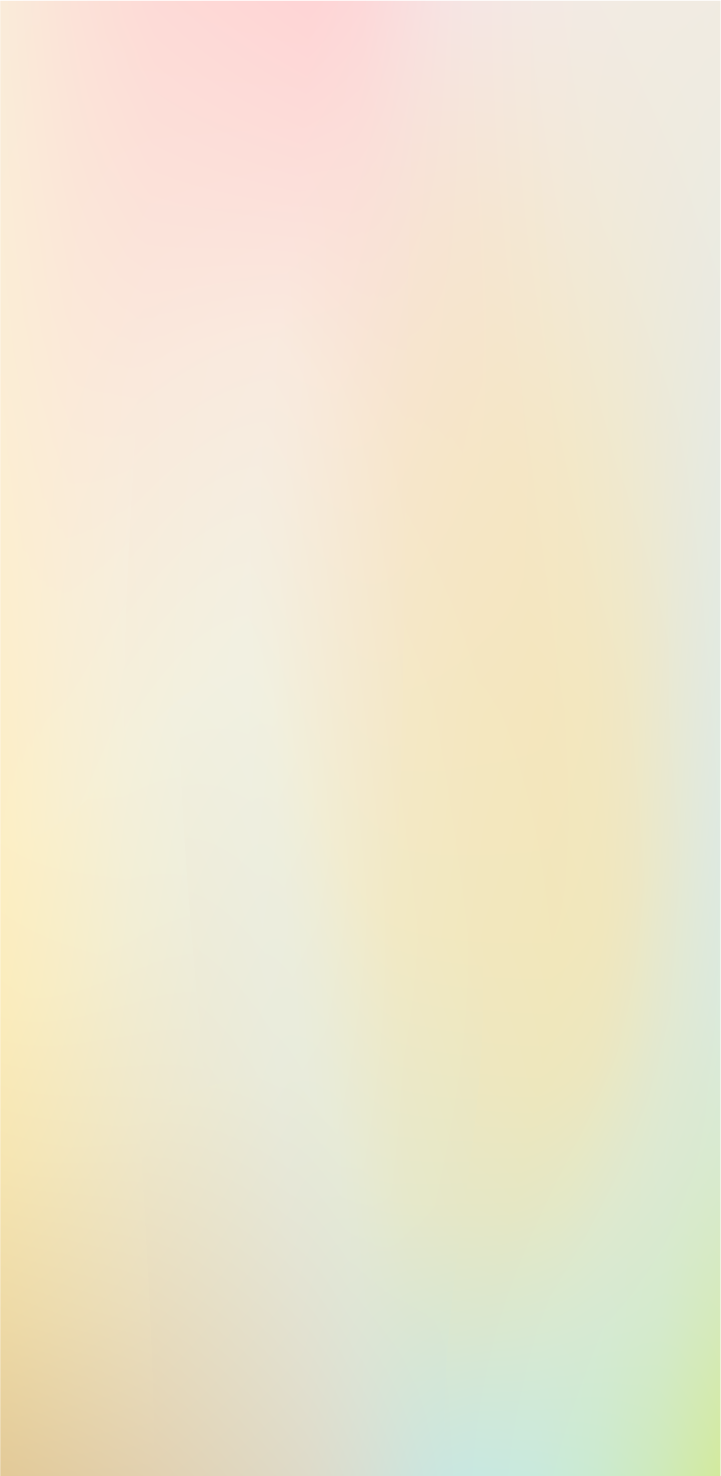
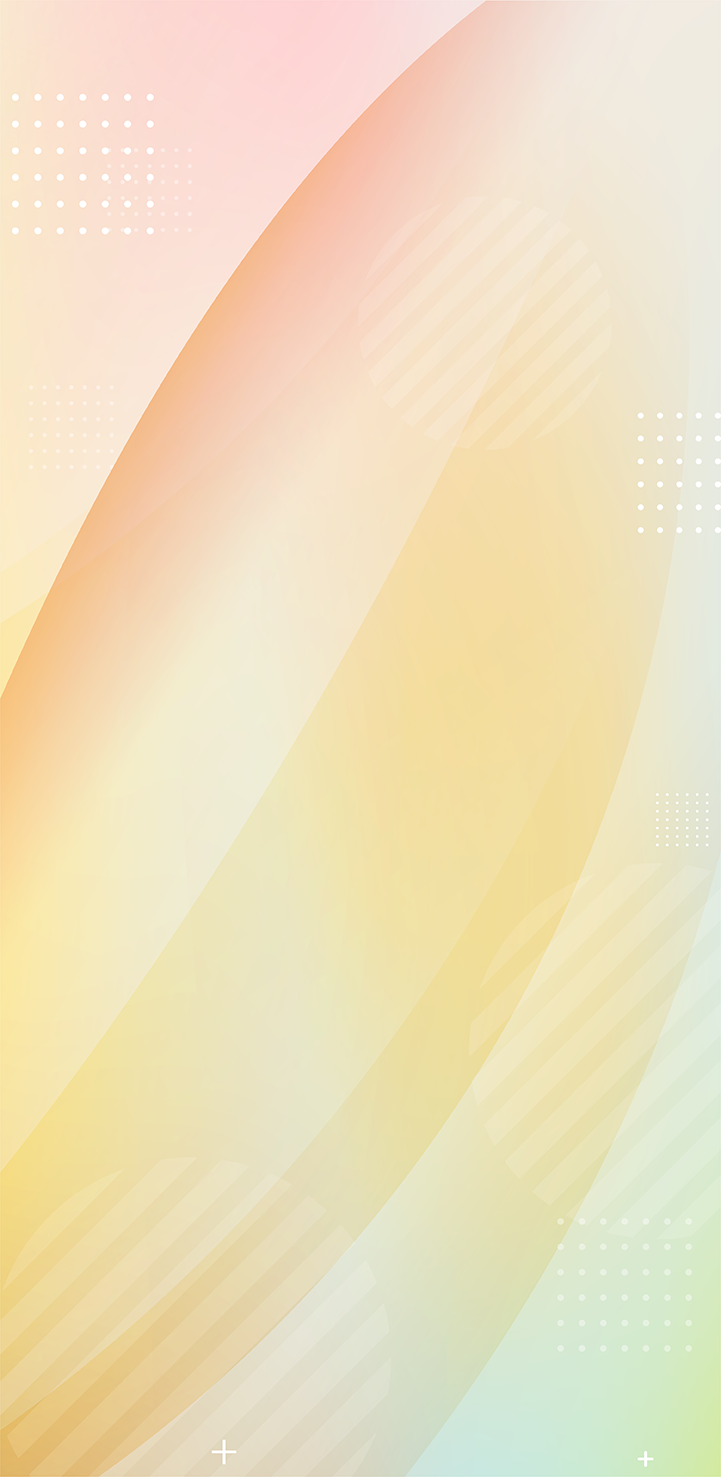
.

diff --git a/src/Components/Pages/HomePage.jsx b/src/Components/Pages/HomePage.jsx
@@ -64,13 +64,15 @@ function HomePage() {
 
 
   return (
-    <div className={`min-h-screen bg-black flex justify-center select-none ${isSidebarOpen ? 'overflow-hidden' : ''}`}>
+    <div className={`min-h-screen flex justify-center select-none ${isSidebarOpen ? 'overflow-hidden' : ''}`}>
 
       <div
         {...handlers}
-        className={`MainContainer w-full flex flex-col items-center justify-center min-h-screen bg-cover bg-center relative ${isSidebarOpen ? 'overflow-hidden' : 'overflow-auto'}`}
-        style={{ backgroundImage: `url(${DefaultBackground})`, backgroundSize : '450px', backgroundAttachment: 'fixed' }}
+        className={`MainContainer w-full flex flex-col items-center justify-center  relative ${isSidebarOpen ? 'overflow-hidden' : 'overflow-auto'}`}
       >
+        <div className="background-fixed "
+          style={{ backgroundImage: `url(${DefaultBackground})`, backgroundSize: '450px', backgroundRepeat : 'no-repeat' }}
+        ></div>
         <Header />
         {/* <Sidebar isOpen={isSidebarOpen} onClose={() => setIsSidebarOpen(false)} />
         {isSidebarOpen && (
@@ -85,7 +87,7 @@ function HomePage() {
             <div className="flex flex-col gap-4 w-full items-center justify-center">
 
               <div className='flex gap-1 items-center'>
-                 <h3 className='text-sm md:text-[16px] font-semibold tracking-[0.20em] text-[#0F4254] uppercase'> Find my details below</h3>
+                <h3 className='text-sm md:text-[16px] font-semibold tracking-[0.20em] text-[#0F4254] uppercase'> Find my details below</h3>
                 <div className="relative group cursor-pointer">
                   <img className='w-3 AlertIconH' src={AlertIcon} alt="" />
                   <div className="tooltip absolute top-7 -right-20 z-40">
@@ -152,7 +154,7 @@ function HomePage() {
             </div>
           </div>
 
-         
+
           {/* Mediclaim Policies */}
           <div className="w-full flex flex-col gap-20 mt-[90px] px-5">
 
@@ -171,17 +173,17 @@ function HomePage() {
               <div className="px-4 py-7 flex flex-col gap-3">
                 <div className="flex justify-between gap-2">
                   <div className="flex gap-4">
-                  <img className='w-10' src={CompanyPoliciesIcon} alt="" />
-                  <div className="flex flex-col gap-1">
-                    <h4 className='text-lg md:text-2xl font-bold text-[#32CC36]'>Company Policy</h4>
-                    <span className='text-xs md:text-sm ml-1'>Expiry Date: <span className='font-semibold text-[#3C3C3C]'>06.04.2024</span></span>
-                  </div>
+                    <img className='w-10' src={CompanyPoliciesIcon} alt="" />
+                    <div className="flex flex-col gap-1">
+                      <h4 className='text-lg md:text-2xl font-bold text-[#32CC36]'>Company Policy</h4>
+                      <span className='text-xs md:text-sm ml-1'>Expiry Date: <span className='font-semibold text-[#3C3C3C]'>06.04.2024</span></span>
+                    </div>
                   </div>
                   <button className='bg-[#32CC36] h-[26px] rounded-full flex items-center justify-end pl-5 pr-2 xss:pl-10 xs:pl-14'><img className='w-4' src={rightArrow} alt="" /></button>
                 </div>
 
                 <div className="py-7 flex flex-col gap-7">
-                  
+
                   <Input label={'Mediclaim Company'} type='text' value={'Manipal Cigna'} icon={MedCompany} />
                   <Input label={'Mediclaim-ID'} type='text' value={'5095491581'} icon={PolicyRelationShipManager} />
                   <Input label={'Policy Relationship Manager'} type='text' value={'Rajkumar Tiwari'} icon={MedID} icon2={CallIcon} />
@@ -208,11 +210,11 @@ function HomePage() {
               <div className="px-4 py-7 flex flex-col gap-3">
                 <div className="flex justify-between">
                   <div className="flex gap-4">
-                  <img className='w-10' src={CompanyPoliciesIcon} alt="" />
-                  <div className="flex flex-col gap-1">                    
-                    <h4 className='text-lg md:text-2xl font-bold text-[#32CC36]'>Personal Policy</h4>
-                    <span className='text-xs whitespace-nowrap md:text-sm flex gap-1 ml-1'>Expiry Date: <span className='font-semibold text-[#3C3C3C]'>Not Mentioned</span> <img className='w-3' src={AlertIcon} alt="" /></span>
-                  </div>
+                    <img className='w-10' src={CompanyPoliciesIcon} alt="" />
+                    <div className="flex flex-col gap-1">
+                      <h4 className='text-lg md:text-2xl font-bold text-[#32CC36]'>Personal Policy</h4>
+                      <span className='text-xs whitespace-nowrap md:text-sm flex gap-1 ml-1'>Expiry Date: <span className='font-semibold text-[#3C3C3C]'>Not Mentioned</span> <img className='w-3' src={AlertIcon} alt="" /></span>
+                    </div>
                   </div>
                   <button className='bg-[#32CC36] h-[26px] rounded-full flex items-center justify-end  pl-5 pr-2 xss:pl-10 xs:pl-14'><img className='w-4' src={rightArrow} alt="" /></button>
                 </div>

diff --git a/src/Components/HeroSection.jsx b/src/Components/HeroSection.jsx
@@ -54,18 +54,29 @@ function HeroSection() {
 
   useEffect(() => {
     if (isModalOpen) {
-      document.body.style.overflow = 'hidden';
+      const scrollY = window.scrollY;
+      
+      document.body.style.cssText = `
+        position: fixed;
+        top: -${scrollY}px;
+        left: 0;
+        right: 0;
+        overflow: hidden;
+        width: 100%;
+      `;
     } else {
-      document.body.style.overflow = 'auto';
+      document.body.style.cssText = '';
+      window.scrollTo(0, parseInt(document.body.style.top || '0') * -1);
     }
-
+  
     return () => {
-      document.body.style.overflow = 'auto';
+      document.body.style.cssText = '';
     };
   }, [isModalOpen]);
 
+
   return (
-    <div className='w-full h-[680px] bg-[#002D3A] flex flex-col gap-7 border border-black rounded-b-[40px]'>
+    <div className='w-full h-[680px] bg-[#002D3A] flex flex-col gap-7 rounded-b-[40px]'>
       {/* jdhfkjdsh */}
       <div className="h-[400px] flex justify-center items-start overflow-hidden relative rounded-b-[40px] pt-[88px] bg-gradient-to-t from-[#FFB404] to-[#FFCE05]">
         <img className=' w-56 absolute top-28 border-black' src={LogoInHeroSection} alt="" />

diff --git a/src/Components/Header/index.jsx b/src/Components/Header/index.jsx
@@ -33,13 +33,13 @@ function Header({ toggleSidebar }) {
             onClick={()=>navigate('/sidebar')}
           />
         </div>
-        <div className="flex-grow w-[84%] h-12 flex justify-center items-end bg-[#002D3A] rounded-l-full shadow-xl shadow-red-500/45 ">
+        <div className="flex-grow w-[84%] h-12 flex relative justify-center items-end bg-[#002D3A] rounded-l-full shadow-xl shadow-red-500/45 ">
           <div className="border-white h-full flex items-center mb-[1.5px] justify-center w-full">
             <span className="text-white whitespace-nowrap font-semibold text-start w-full pl-[17px] xss:pl-6 text-[9px] ssxss:text-[10px] sxss:text-[12px] xss:text-[15px]">
               Safety is Everyone&apos;s responsibility
             </span>
           </div>
-          <img className='h-9' src={HeaderRightSideLogo} alt="" />
+          <img className='h-9 w-16 md:w-20' src={HeaderRightSideLogo} alt="" />
         </div>
       </div>
     </header>

diff --git a/src/Components/EmergencyModal.jsx b/src/Components/EmergencyModal.jsx
@@ -47,7 +47,7 @@ function EmergencyModal({ isOpen, onClose }) {
     <Modal isOpen={isOpen} onClose={onClose}>
       <div className="relative overflow-hidden" style={{ height: '400px', overflow: 'hidden' }}>
         {/* login part */}
-        <div className={`absolute w-full transition-all duration-500 ease-in-out ${showVerification ? 'opacity-0' : 'opacity-100'}`}
+        <div className={`absolute w-full  transition-all duration-500 ease-in-out ${showVerification ? 'opacity-0' : 'opacity-100'}`}
              style={{ transform: showVerification ? 'translateX(-100%)' : 'translateX(0)' }}>
           <div className="w-full px-6">
           <h2 className="text-4xl text-[#FFA500] mt-7">Verify your</h2>

diff --git a/src/index.css b/src/index.css
@@ -23,10 +23,37 @@
     --primary-width: 450px;
 }
 
+body{
+    background-color: black;
+}
 
 .MainContainer{
     width: var(--primary-width);
+
+    
 }
+
+/* .ios-no-scroll {
+    overflow: hidden;
+    position: fixed;
+    width: 100%;
+    height: 100%;
+  } */
+
+.background-fixed {
+    z-index: 0;
+    position: fixed;
+    background-position: center;
+    top: 0;
+    left: 0;
+    bottom: 0;
+    right: 0;
+    width: 100%;
+    height: 100%;
+    z-index: -1;
+    background-image: url(${DefaultBackground});
+    background-size: 450px;
+  }
 
 .MainHeaderWidth{
     max-width: var(--primary-width);

diff --git a/index.html b/index.html
@@ -3,7 +3,8 @@
   <head>
     <meta charset="UTF-8" />
     <link rel="icon" type="image/svg+xml" href="/logo.svg" />
-    <meta name="viewport" content="width=device-width, initial-scale=1.0" />
+    <meta name="viewport" content="width=device-width, initial-scale=1, maximum-scale=1, user-scalable=no">
+    
     <title>WellbyQR</title>
   </head>
   <body>
